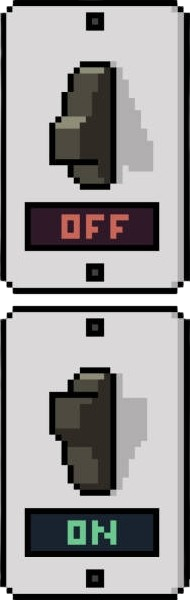
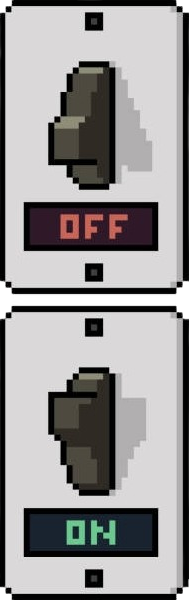
interupteur

diff --git a/SFMLEngine/src/Components/SquareCollider.cpp b/SFMLEngine/src/Components/SquareCollider.cpp
@@ -17,99 +17,108 @@ bool SquareCollider::IsColliding(const SquareCollider& _collider_a, const Square
 	sf::FloatRect objectBounds = _collider_b.GetOwner()->getBounds(rObject);
 
 	bool collison_for_jumping_obj = false;
-
-	if(playerBounds.intersects(objectBounds))
-	{
-		int collisionWidth = std::min(playerBounds.left + playerBounds.width, objectBounds.left + objectBounds.width) - std::max(playerBounds.left, objectBounds.left);
-		int collisionHeight = std::min(playerBounds.top + playerBounds.height, objectBounds.top + objectBounds.height) - std::max(playerBounds.top, objectBounds.top);
-		// top collision with loss of life
-		if (playerBounds.top > objectBounds.top && playerBounds.top <= objectBounds.top + objectBounds.height && ((playerBounds.left <= objectBounds.left && playerBounds.left + playerBounds.width >= objectBounds.left) || (playerBounds.left >= objectBounds.left && playerBounds.left <= objectBounds.left + objectBounds.width)) && (collisionWidth > collisionHeight && collisionWidth > 5) && _collider_b.GetOwner()->GetType() == DeathType)
-		{
-			if (_collider_a.GetOwner()->GetComponent<Player>()->GetCapacity()->GetName() == "Invincibilite")
-			{
-				_collider_a.GetOwner()->GetComponent<SquareCollider>()->SetCanMoving("up", false);
-			}
-			else
-			{
-				_collider_a.GetOwner()->GetComponent<SquareCollider>()->SetCanMoving("up", false);
-				_collider_a.GetOwner()->GetComponent<Player>()->SetHp(_collider_a.GetOwner()->GetComponent<Player>()->GetHp() - (1 * _delta_time));
-			}
+	if (_collider_b.GetOwner()->GetType() == InteractiveType) {
+		if (playerBounds.intersects(objectBounds)) {
+			_collider_b.GetOwner()->GetComponent<Interactive>()->SetCanBeActivated(true);
 		}
-		// top collision
-		else if (playerBounds.top > objectBounds.top && playerBounds.top <= objectBounds.top + objectBounds.height && ((playerBounds.left <= objectBounds.left && playerBounds.left + playerBounds.width >= objectBounds.left) || (playerBounds.left >= objectBounds.left && playerBounds.left <= objectBounds.left + objectBounds.width)) && (collisionWidth > collisionHeight && collisionWidth > 5))
-		{
-			if (_collider_b.GetOwner()->GetName() == "Lit_appuis_tete" || _collider_b.GetOwner()->GetName() == "Bureau") {
-				collison_for_jumping_obj = true;
-			}
-			else {
-				_collider_a.GetOwner()->GetComponent<SquareCollider>()->SetCanMoving("up", false);
-			}
-		}	
-		// bottom collision with loss of life
-		if (playerBounds.top <= objectBounds.top && playerBounds.top + playerBounds.height >= objectBounds.top && ((playerBounds.left <= objectBounds.left && playerBounds.left + playerBounds.width >= objectBounds.left) || (playerBounds.left >= objectBounds.left && playerBounds.left <= objectBounds.left + objectBounds.width)) && (collisionWidth > collisionHeight && collisionWidth > 5) && _collider_b.GetOwner()->GetType() == DeathType)
-		{
-			if (_collider_a.GetOwner()->GetComponent<Player>()->GetCapacity()->GetName() == "Invincibilite")
-			{
-				_collider_a.GetOwner()->GetComponent<SquareCollider>()->SetCanMoving("down", false);
-			}
-			else
-			{
-				_collider_a.GetOwner()->GetComponent<SquareCollider>()->SetCanMoving("down", false);
-				_collider_a.GetOwner()->GetComponent<Player>()->SetHp(_collider_a.GetOwner()->GetComponent<Player>()->GetHp() - (1 * _delta_time));
-			}
+		else {
+			_collider_b.GetOwner()->GetComponent<Interactive>()->SetCanBeActivated(false);
 		}
-		// bottom collision
-		else if (playerBounds.top <= objectBounds.top && playerBounds.top + playerBounds.height >= objectBounds.top && ((playerBounds.left <= objectBounds.left && playerBounds.left + playerBounds.width >= objectBounds.left) || (playerBounds.left >= objectBounds.left && playerBounds.left <= objectBounds.left + objectBounds.width)) && (collisionWidth > collisionHeight && collisionWidth > 5))
+	}
+	else {
+		if(playerBounds.intersects(objectBounds))
 		{
-			if ((_collider_b.GetOwner()->GetName() == "Lit_appuis_tete" || _collider_b.GetOwner()->GetName() == "Bureau")) {
-				if (playerBounds.top + playerBounds.height - 0.25 <= objectBounds.top) {
+			int collisionWidth = std::min(playerBounds.left + playerBounds.width, objectBounds.left + objectBounds.width) - std::max(playerBounds.left, objectBounds.left);
+			int collisionHeight = std::min(playerBounds.top + playerBounds.height, objectBounds.top + objectBounds.height) - std::max(playerBounds.top, objectBounds.top);
+			// top collision with loss of life
+			if (playerBounds.top > objectBounds.top && playerBounds.top <= objectBounds.top + objectBounds.height && ((playerBounds.left <= objectBounds.left && playerBounds.left + playerBounds.width >= objectBounds.left) || (playerBounds.left >= objectBounds.left && playerBounds.left <= objectBounds.left + objectBounds.width)) && (collisionWidth > collisionHeight && collisionWidth > 5) && _collider_b.GetOwner()->GetType() == DeathType)
+			{
+				if (_collider_a.GetOwner()->GetComponent<Player>()->GetCapacity()->GetName() == "Invincibilite")
+				{
+					_collider_a.GetOwner()->GetComponent<SquareCollider>()->SetCanMoving("up", false);
+				}
+				else
+				{
+					_collider_a.GetOwner()->GetComponent<SquareCollider>()->SetCanMoving("up", false);
+					_collider_a.GetOwner()->GetComponent<Player>()->SetHp(_collider_a.GetOwner()->GetComponent<Player>()->GetHp() - (1 * _delta_time));
+				}
+			}
+			// top collision
+			else if (playerBounds.top > objectBounds.top && playerBounds.top <= objectBounds.top + objectBounds.height && ((playerBounds.left <= objectBounds.left && playerBounds.left + playerBounds.width >= objectBounds.left) || (playerBounds.left >= objectBounds.left && playerBounds.left <= objectBounds.left + objectBounds.width)) && (collisionWidth > collisionHeight && collisionWidth > 5))
+			{
+				if (_collider_b.GetOwner()->GetName() == "Lit_appuis_tete" || _collider_b.GetOwner()->GetName() == "Bureau") {
+					collison_for_jumping_obj = true;
+				}
+				else {
+					_collider_a.GetOwner()->GetComponent<SquareCollider>()->SetCanMoving("up", false);
+				}
+			}
+			// bottom collision with loss of life
+			if (playerBounds.top <= objectBounds.top && playerBounds.top + playerBounds.height >= objectBounds.top && ((playerBounds.left <= objectBounds.left && playerBounds.left + playerBounds.width >= objectBounds.left) || (playerBounds.left >= objectBounds.left && playerBounds.left <= objectBounds.left + objectBounds.width)) && (collisionWidth > collisionHeight && collisionWidth > 5) && _collider_b.GetOwner()->GetType() == DeathType)
+			{
+				if (_collider_a.GetOwner()->GetComponent<Player>()->GetCapacity()->GetName() == "Invincibilite")
+				{
+					_collider_a.GetOwner()->GetComponent<SquareCollider>()->SetCanMoving("down", false);
+				}
+				else
+				{
+					_collider_a.GetOwner()->GetComponent<SquareCollider>()->SetCanMoving("down", false);
+					_collider_a.GetOwner()->GetComponent<Player>()->SetHp(_collider_a.GetOwner()->GetComponent<Player>()->GetHp() - (1 * _delta_time));
+				}
+			}
+			// bottom collision
+			else if (playerBounds.top <= objectBounds.top && playerBounds.top + playerBounds.height >= objectBounds.top && ((playerBounds.left <= objectBounds.left && playerBounds.left + playerBounds.width >= objectBounds.left) || (playerBounds.left >= objectBounds.left && playerBounds.left <= objectBounds.left + objectBounds.width)) && (collisionWidth > collisionHeight && collisionWidth > 5))
+			{
+				if ((_collider_b.GetOwner()->GetName() == "Lit_appuis_tete" || _collider_b.GetOwner()->GetName() == "Bureau")) {
+					if (playerBounds.top + playerBounds.height - 0.25 <= objectBounds.top) {
+						_collider_a.GetOwner()->GetComponent<SquareCollider>()->SetCanMoving("down", false);
+					}
+				}
+				else {
 					_collider_a.GetOwner()->GetComponent<SquareCollider>()->SetCanMoving("down", false);
 				}
 			}
-			else {
-				_collider_a.GetOwner()->GetComponent<SquareCollider>()->SetCanMoving("down", false);
+			//left collision with loss of life 
+			if (playerBounds.left >= objectBounds.left && playerBounds.left + playerBounds.width >= objectBounds.left + objectBounds.width && ((playerBounds.top <= objectBounds.top && playerBounds.top + playerBounds.height >= objectBounds.top) || (playerBounds.top >= objectBounds.top && playerBounds.top <= objectBounds.top + objectBounds.height)) && (collisionWidth < collisionHeight && collisionHeight > 5) && _collider_b.GetOwner()->GetType() == DollOffType)
+			{
+				if (_collider_a.GetOwner()->GetComponent<Player>()->GetCapacity()->GetName() == "Invincibilite")
+				{
+					_collider_a.GetOwner()->GetComponent<SquareCollider>()->SetCanMoving("left", false);
+				}
+				else
+				{
+					_collider_a.GetOwner()->GetComponent<SquareCollider>()->SetCanMoving("left", false);
+					_collider_a.GetOwner()->GetComponent<Player>()->SetHp(_collider_a.GetOwner()->GetComponent<Player>()->GetHp() - (1 * _delta_time));
+				}
 			}
-		}
-		//left collision with loss of life 
-		if (playerBounds.left >= objectBounds.left && playerBounds.left + playerBounds.width >= objectBounds.left + objectBounds.width && ((playerBounds.top <= objectBounds.top && playerBounds.top + playerBounds.height >= objectBounds.top) || (playerBounds.top >= objectBounds.top && playerBounds.top <= objectBounds.top + objectBounds.height)) && (collisionWidth < collisionHeight && collisionHeight > 5) && _collider_b.GetOwner()->GetType() == DollOffType)
-		{
-			if (_collider_a.GetOwner()->GetComponent<Player>()->GetCapacity()->GetName() == "Invincibilite")
+			//left collision 
+			else if (playerBounds.left >= objectBounds.left && playerBounds.left + playerBounds.width >= objectBounds.left + objectBounds.width && ((playerBounds.top <= objectBounds.top && playerBounds.top + playerBounds.height >= objectBounds.top) || (playerBounds.top >= objectBounds.top && playerBounds.top <= objectBounds.top + objectBounds.height)) && (collisionWidth < collisionHeight && collisionHeight > 5))
 			{
 				_collider_a.GetOwner()->GetComponent<SquareCollider>()->SetCanMoving("left", false);
-			}
-			else
-			{
-				_collider_a.GetOwner()->GetComponent<SquareCollider>()->SetCanMoving("left", false);
-				_collider_a.GetOwner()->GetComponent<Player>()->SetHp(_collider_a.GetOwner()->GetComponent<Player>()->GetHp() - (1 * _delta_time));
-			}
-		}
-		//left collision 
-		else if (playerBounds.left >= objectBounds.left && playerBounds.left + playerBounds.width >= objectBounds.left + objectBounds.width && ((playerBounds.top <= objectBounds.top && playerBounds.top + playerBounds.height >= objectBounds.top) || (playerBounds.top >= objectBounds.top && playerBounds.top <= objectBounds.top + objectBounds.height)) && (collisionWidth < collisionHeight && collisionHeight > 5))
-		{
-			_collider_a.GetOwner()->GetComponent<SquareCollider>()->SetCanMoving("left", false);
 
-		}
-		//right collision with loss of life
-		if (playerBounds.left <= objectBounds.left && playerBounds.left + playerBounds.width <= objectBounds.left + objectBounds.width && ((playerBounds.top <= objectBounds.top && playerBounds.top + playerBounds.height >= objectBounds.top) || (playerBounds.top >= objectBounds.top && playerBounds.top <= objectBounds.top + objectBounds.height)) && (collisionWidth < collisionHeight && collisionHeight > 5) && _collider_b.GetOwner()->GetType() == DeathType)
-		{
-			if (_collider_a.GetOwner()->GetComponent<Player>()->GetCapacity()->GetName() == "Invincibilite")
+			}
+			//right collision with loss of life
+			if (playerBounds.left <= objectBounds.left && playerBounds.left + playerBounds.width <= objectBounds.left + objectBounds.width && ((playerBounds.top <= objectBounds.top && playerBounds.top + playerBounds.height >= objectBounds.top) || (playerBounds.top >= objectBounds.top && playerBounds.top <= objectBounds.top + objectBounds.height)) && (collisionWidth < collisionHeight && collisionHeight > 5) && _collider_b.GetOwner()->GetType() == DeathType)
+			{
+				if (_collider_a.GetOwner()->GetComponent<Player>()->GetCapacity()->GetName() == "Invincibilite")
+				{
+					_collider_a.GetOwner()->GetComponent<SquareCollider>()->SetCanMoving("right", false);
+				}
+				else
+				{
+					_collider_a.GetOwner()->GetComponent<SquareCollider>()->SetCanMoving("right", false);
+					_collider_a.GetOwner()->GetComponent<Player>()->SetHp(_collider_a.GetOwner()->GetComponent<Player>()->GetHp() - (1 * _delta_time));
+				}
+			}
+			//right collision
+			else if (playerBounds.left <= objectBounds.left && playerBounds.left + playerBounds.width <= objectBounds.left + objectBounds.width && ((playerBounds.top <= objectBounds.top && playerBounds.top + playerBounds.height >= objectBounds.top) || (playerBounds.top >= objectBounds.top && playerBounds.top <= objectBounds.top + objectBounds.height)) && (collisionWidth < collisionHeight && collisionHeight > 5))
 			{
 				_collider_a.GetOwner()->GetComponent<SquareCollider>()->SetCanMoving("right", false);
 			}
-			else
-			{
-				_collider_a.GetOwner()->GetComponent<SquareCollider>()->SetCanMoving("right", false);
-				_collider_a.GetOwner()->GetComponent<Player>()->SetHp(_collider_a.GetOwner()->GetComponent<Player>()->GetHp() - (1 * _delta_time));
-			}
+			return true;
 		}
-		//right collision
-		else if (playerBounds.left <= objectBounds.left && playerBounds.left + playerBounds.width <= objectBounds.left + objectBounds.width && ((playerBounds.top <= objectBounds.top && playerBounds.top + playerBounds.height >= objectBounds.top) || (playerBounds.top >= objectBounds.top && playerBounds.top <= objectBounds.top + objectBounds.height)) && (collisionWidth < collisionHeight && collisionHeight > 5))
-		{
-			_collider_a.GetOwner()->GetComponent<SquareCollider>()->SetCanMoving("right", false);
-		}		
-		return true;
+		return false;
 	}
-	return false;
 }
 
 

diff --git a/SFMLEngine/src/Scene.cpp b/SFMLEngine/src/Scene.cpp
@@ -252,8 +252,6 @@ GameObject* Scene::CreateSpriteObject(Scene* scene, const ObjectType& _type, std
 	GameObject* game_object = scene->CreateGameObject(_type, _name);
 	game_object->SetPosition(_position);
 
-	sf::Vector2f window_size = Engine::GetInstance()->GetModuleManager()->GetModule<WindowModule>()->GetWindowSize();
-
 	SquareCollider* squareCollider = game_object->CreateComponent<SquareCollider>();
 	squareCollider->SetWidth(_size.x);
 	squareCollider->SetHeight(_size.y);
@@ -269,3 +267,40 @@ GameObject* Scene::CreateSpriteObject(Scene* scene, const ObjectType& _type, std
 	return game_object;
 }
 
+GameObject* Scene::CreateInteractiveObject(Scene* scene, const ObjectType& _type, std::string _name, Maths::Vector2f _position, Maths::Vector2f _size, std::string nom_texture, Maths::Vector2f _sprite_size, Maths::Vector2f sprite_space) {
+	GameObject* game_object = scene->CreateGameObject(_type, _name);
+	game_object->SetPosition(_position);
+
+	SquareCollider* squareCollider = game_object->CreateComponent<SquareCollider>();
+	squareCollider->SetWidth(_size.x);
+	squareCollider->SetHeight(_size.y);
+
+	SpriteRenderer* sprite_renderer = game_object->CreateComponent<SpriteRenderer>();
+	if (sprite_space.x == 0 && sprite_space.y == 0) {
+		sprite_renderer->SetSprite(&texture[nom_texture], _size);
+	}
+	else {
+		sprite_renderer->SetSpriteRect(&texture[nom_texture], _size, _sprite_size, Maths::Vector2f(0, 0), sprite_space);
+	}
+
+	Interactive* interactive = game_object->CreateComponent<Interactive>();
+	
+	return game_object;
+}
+
+
+GameObject* Scene::CreateOnlySprite(Scene* scene, const ObjectType& _type, std::string _name, Maths::Vector2f _position, Maths::Vector2f _size, std::string nom_texture, Maths::Vector2f _sprite_size, Maths::Vector2f sprite_space) {
+	GameObject* game_object = scene->CreateGameObject(_type, _name);
+	game_object->SetPosition(_position);
+
+	SpriteRenderer* sprite_renderer = game_object->CreateComponent<SpriteRenderer>();
+	if (sprite_space.x == 0 && sprite_space.y == 0) {
+		sprite_renderer->SetSprite(&texture[nom_texture], _size);
+	}
+	else {
+		sprite_renderer->SetSpriteRect(&texture[nom_texture], _size, _sprite_size, Maths::Vector2f(0, 0), sprite_space);
+	}
+
+
+	return game_object;
+}

diff --git a/Game/Scenes/Level3.cpp b/Game/Scenes/Level3.cpp
@@ -8,6 +8,7 @@ void DefaultScene::SpawnObjectLevel3() {
     SetBackground("background");
 	SetTexture("texture_livre", "Assets/Object/livre.png");
 	SetTexture("texture_interrupteur", "Assets/Object/interrupteur.png");
+	SetTexture("texture_lampe", "Assets/Object/lamp.png");
 
 	float sizeX = window_size.x / 100;
 	float sizeY = window_size.y / 100;
@@ -43,6 +44,7 @@ void DefaultScene::SpawnObjectLevel3() {
 	CreateColliderObject(this, ColliderType, "Carton", Maths::Vector2f(sizeX * 43.4375, sizeY * 79.1667), Maths::Vector2f(sizeX * 4.63542, sizeY * 14.4444));
 	   
 	//Lampe
+	CreateOnlySprite(this, GameObjectType, "Lampe", Maths::Vector2f(sizeX * 51.4583, sizeY * 54.3519), Maths::Vector2f(sizeX * 6.875, sizeY * 4.62963), "texture_lampe", Maths::Vector2f(122,341), Maths::Vector2f(7,0));
 	CreateColliderObject(this, DeathType, "Lampe", Maths::Vector2f(sizeX * 51.4583, sizeY * 54.3519), Maths::Vector2f(sizeX * 6.875, sizeY * 4.62963));
 	CreateColliderObject(this, DeathType, "Lampe", Maths::Vector2f(sizeX * 52.2396, sizeY * 50.5556), Maths::Vector2f(sizeX * 5.625, sizeY * 3.61111));
 
@@ -71,6 +73,7 @@ void DefaultScene::SpawnObjectLevel3() {
 	CreateColliderObject(this, ColliderType, "Trou_de_souris", Maths::Vector2f(sizeX * 96.5104, sizeY * 83.8889), Maths::Vector2f(sizeX * 2.96875, sizeY * 3.33333));
 
 	//Interrupteur
-	CreateSpriteObject(this, ColliderType, "Interrupteur", Maths::Vector2f(sizeX * 37.6562, sizeY * 65.9259), Maths::Vector2f(sizeX * 2.23958, sizeY * 2.22222), "texture_interrupteur", Maths::Vector2f(189, 294), Maths::Vector2f(0, 13));
+	GameObject* interrupteur = CreateInteractiveObject(this, InteractiveType, "Interrupteur", Maths::Vector2f(sizeX * 36.5104, sizeY * 61.2037), Maths::Vector2f(sizeX * 1.8958, ((sizeX * 1.8958) * 147) / 94.5), "texture_interrupteur", Maths::Vector2f(189, 294), Maths::Vector2f(0, 13));
+	interrupteur->GetComponent<SpriteRenderer>()->SetNextSpriteRect(1);
 
 }

diff --git a/SFMLEngine/include/Scene.h b/SFMLEngine/include/Scene.h
@@ -10,6 +10,7 @@
 #include "Components/TextRenderer.h"
 #include "Components/SquareCollider.h"
 #include "Components/SpriteRenderer.h"
+#include "Components/Interactive.h"
 
 
 class Scene
@@ -50,6 +51,8 @@ public:
 
 	GameObject* CreateText(const ObjectType& _type, std::string _name, Maths::Vector2f _position, const sf::Color _color, Maths::Vector2u size, int _caractere_size);
 	GameObject* CreateSpriteObject(Scene* scene, const ObjectType& _type, std::string _name, Maths::Vector2f _position, Maths::Vector2f _size, std::string nom_texture, Maths::Vector2f _sprite_size, Maths::Vector2f sprite_space);
+	GameObject* CreateInteractiveObject(Scene* scene, const ObjectType& _type, std::string _name, Maths::Vector2f _position, Maths::Vector2f _size, std::string nom_texture, Maths::Vector2f _sprite_size, Maths::Vector2f sprite_space);
+	GameObject* CreateOnlySprite(Scene* scene, const ObjectType& _type, std::string _name, Maths::Vector2f _position, Maths::Vector2f _size, std::string nom_texture, Maths::Vector2f _sprite_size, Maths::Vector2f sprite_space);
 
 	int SetTexture(std::string nom_texture, std::string chemin_fichier);
 

diff --git a/Game/Scenes/DefaultScene.h b/Game/Scenes/DefaultScene.h
@@ -42,23 +42,6 @@ public:
 		return game_object;
 	}
 
-	GameObject* CreateSwitch(Scene* scene, const ObjectType& _type, std::string _name, const float _x, const float _y) {
-		GameObject* game_object = scene->CreateGameObject(_type, _name);
-		game_object->SetPosition(Maths::Vector2f(_x, _y));
-
-		sf::Vector2f window_size = Engine::GetInstance()->GetModuleManager()->GetModule<WindowModule>()->GetWindowSize();
-
-		SquareCollider* squareCollider = game_object->CreateComponent<SquareCollider>();
-		squareCollider->SetWidth(window_size.x / 33);
-		squareCollider->SetHeight(window_size.y / 22);
-
-		RectangleShapeRenderer* shapeRenderer = game_object->CreateComponent<RectangleShapeRenderer>();
-		shapeRenderer->SetColor(sf::Color{255,0,0,50}); 
-		shapeRenderer->SetSize(Maths::Vector2f(window_size.x / 33, window_size.y / 22)); 
-
-		return game_object;
-	}
-
 private:
 
 	void SpawnObjectLevel3();

diff --git a/SFMLEngine/src/Components/Player.cpp b/SFMLEngine/src/Components/Player.cpp
@@ -8,7 +8,6 @@
 #include "Modules/WindowModule.h"
 
 #include <Capacity/Force.h>
-#include "Components/Switch.h"
 #include <Capacity/Invincibilite.h>
 #include <Capacity/InversionGravite.h>
 
@@ -359,7 +358,7 @@ void Player::Update(const float _delta_time, std::unordered_map<sf::Keyboard::Ke
 	GetOwner()->GetComponent<SquareCollider>()->SetCanMoving("right", true);
 	for (GameObject* const& gameObject : *scene->GetGameObjects())
 	{
-		if (gameObject->GetType() != ObjectType::PlayerType) {
+		if (gameObject->GetType() != ObjectType::PlayerType && gameObject->GetType() != ObjectType::GameObjectType) {
 			GetOwner()->GetComponent<SquareCollider>()->IsColliding(*GetOwner()->GetComponent<SquareCollider>(), *gameObject->GetComponent<SquareCollider>() , _delta_time);
 		}
 	}

diff --git a/SFMLEngine/include/Components/Interactive.h b/SFMLEngine/include/Components/Interactive.h
@@ -1,0 +1,18 @@
+#pragma once
+#include "GameObject.h"
+#include "Scene.h"
+
+class Interactive : public Component
+{
+public:
+	bool GetOn() { return is_activated; }
+	bool GetCanBeActivated() { return can_be_activated; }
+
+	void SetOn(bool value) { is_activated = value; }
+	void SetCanBeActivated(bool _can_be_activated) { can_be_activated = _can_be_activated; }
+
+	void Update(const float _delta_time, std::unordered_map<sf::Keyboard::Key, bool>* pressed_input) override;
+private:
+	bool is_activated = false;
+	bool can_be_activated = false;
+};

diff --git a/SFMLEngine/src/Modules/WindowModule.cpp b/SFMLEngine/src/Modules/WindowModule.cpp
@@ -99,6 +99,9 @@ void WindowModule::Update()
 					std::cout << mousePos[0].x / sizeX << " " << mousePos[0].y / sizeY << " " << (mousePos[1].x - mousePos[0].x) / sizeX << " " << (mousePos[1].y - mousePos[0].y) / sizeY << std::endl;
 					mousePos.clear();
 				}
+				else {
+					std::cout << mousePos[0].x << " " << mousePos[0].y << std::endl;
+				}
 			}
 		}
 	}

diff --git a/SFMLEngine/src/Components/Interactive.cpp b/SFMLEngine/src/Components/Interactive.cpp
@@ -1,0 +1,11 @@
+#include "Components/Interactive.h"
+#include <iostream>
+
+void Interactive::Update(const float _delta_time, std::unordered_map<sf::Keyboard::Key, bool>* pressed_input) {
+	if (can_be_activated) {
+		
+	}
+	else {
+		std::cout << "ttttttttttt" << std::endl;
+	}
+}

diff --git a/SFMLEngine/include/Components/ObjectType.h b/SFMLEngine/include/Components/ObjectType.h
@@ -10,5 +10,6 @@ enum ObjectType
 	ColliderType,
 	SwitchType,
 	MoveType,
-	DeathType
+	DeathType,
+	InteractiveType
 };
